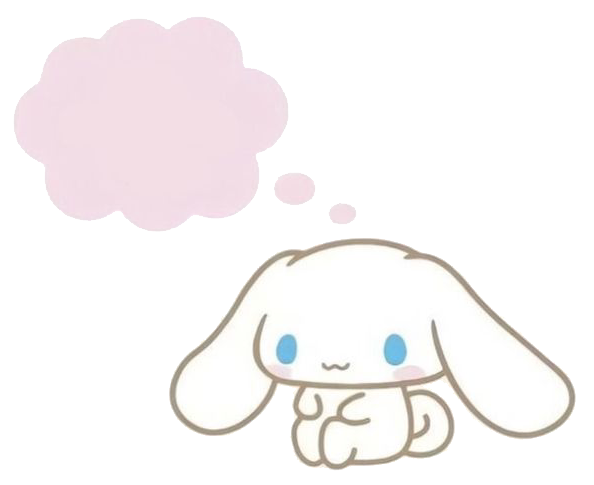
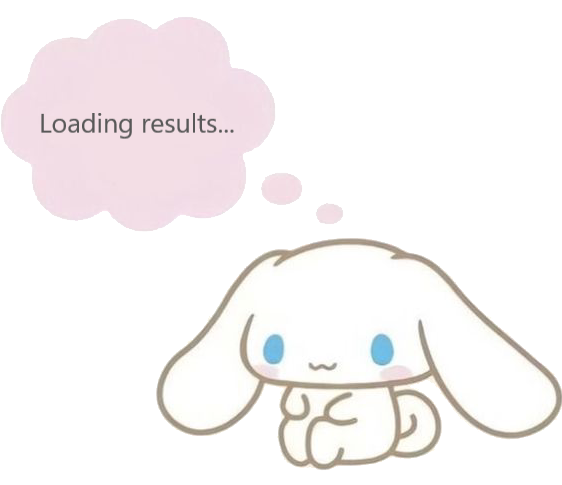
minor design correction

diff --git a/src/Components/Main.js b/src/Components/Main.js
@@ -115,17 +115,17 @@ const Main = () => {
                 <button type='submit' className='d-none' onClick={onSubmit}></button>
             </form>
 
-            <div className='searchedTerm d-flex align-items-center'>
-                {searchedTerm && (
-                    <>
-                        Showing search results for: &nbsp;
-                        <span>
-                            {searchedTerm} &nbsp;
-                            <i className='fal fa-times' onClick={clearSearch}></i>
-                        </span>
-                    </>
-                )}
-            </div>
+
+            {searchedTerm && (
+                <div className='searchedTerm d-flex align-items-center'>
+                    Showing results for: &nbsp;
+                    <span>
+                        {searchedTerm} &nbsp;
+                        <i className='fal fa-times' onClick={clearSearch}></i>
+                    </span>
+                </div>
+            )}
+
 
             {/* Section where the search result is shown */}
             <div className='resultDisplay'>
@@ -136,9 +136,8 @@ const Main = () => {
                     {/* If data exists, then the data are mapped */}
                     {isLoadingImages ? (
                         // Show loading placeholders while fetching
-                        <center className='text-muted'>
-                            <img src={loading} alt='loading_img' className='placeholderImages'></img><br />
-                            <span>Loading results</span>
+                        <center>
+                            <img src={loading} alt='loading_img' className='placeholderImages'></img>
                         </center>
 
                     ) : res.length !== 0 ? (
@@ -149,9 +148,9 @@ const Main = () => {
                         </div>
                     ) : (
                         // If data does not exist, then placeholder texts and image are shown
-                        <center className='text-muted'>
-                            <img src={placeholder} alt='placeholder_img' className='placeholderImages'></img><br />
-                            <span>Search something to see results</span>
+                        <center>
+                            <img src={placeholder} alt='placeholder_img' className='placeholderImages'></img>
+                            <small className='text-muted'>Search something to see results</small>
                         </center>
                     )}
 

diff --git a/src/CSS/resultDisplay.css b/src/CSS/resultDisplay.css
@@ -40,11 +40,11 @@
 
     object-fit: cover;
     cursor: pointer;
-    transition: 0.33s ease-in-out, filter 0.33s ease-in-out;
+    transition: 0.3s ease-in-out, filter 0.33s ease-in-out;
 }
 .resultDisplay .viewGrid .imageResults .card:hover .card-img img{
-    filter: brightness(.9);
-    /* transform: scale(1.05); */
+    filter: brightness(.95);
+    transform: scale(1.1);
 }
 .resultDisplay .viewGrid .imageResults .card:hover .title-overlay {
     bottom: 5px;
@@ -145,7 +145,7 @@
 
     color: #000000;
     background: rgb(204 204 204 / 45%);
-    backdrop-filter: blur(3px);
+    backdrop-filter: blur(2px);
     border: none;
     border-radius: 50%;
 

diff --git a/src/CSS/searchInput.css b/src/CSS/searchInput.css
@@ -2,8 +2,7 @@
     display: flex;
     align-items: center;
     justify-content: center;
-    /* justify-content: space-between; */
-    /* gap: 1rem; */
+    padding-left: 10px;
 }
 
 
@@ -31,12 +30,13 @@
 
     transition: .2s ease-in-out;
 
-    width: 450px;
-    padding: 10px 40px;
+    width: 100%;
+    max-width: 400px;
+    padding: 10px 15px 10px 40px;
 }
 .searchInput input:focus{
     background-color: white;
-    box-shadow: 0px 0px 4px 1px rgb(0, 0, 0, 20%);
+    box-shadow: 0px 0px 5px 2px rgb(0, 0, 0, 12%);
 }
 
 

diff --git a/src/CSS/main.css b/src/CSS/main.css
@@ -27,10 +27,11 @@ body.dark-mode {
 
 
 .searchedTerm span{
-    background: #ebebeb;
-    padding: 2px 5px;
     font-size: 13px;
+    color: black;
+    background-color: #ebebeb;
     border-radius: 4px;
+    padding: 2px 5px;
 }
 .searchedTerm span i{
     color: red;
@@ -58,7 +59,12 @@ body.dark-mode {
 
 
 .placeholderImages{
-    height: 200px;
+    max-width: 100%;
+    height: auto;
+    width: 22%; 
+    min-width: 235px;
+    display: block;
+    margin: 0 auto;
 }
 
 
